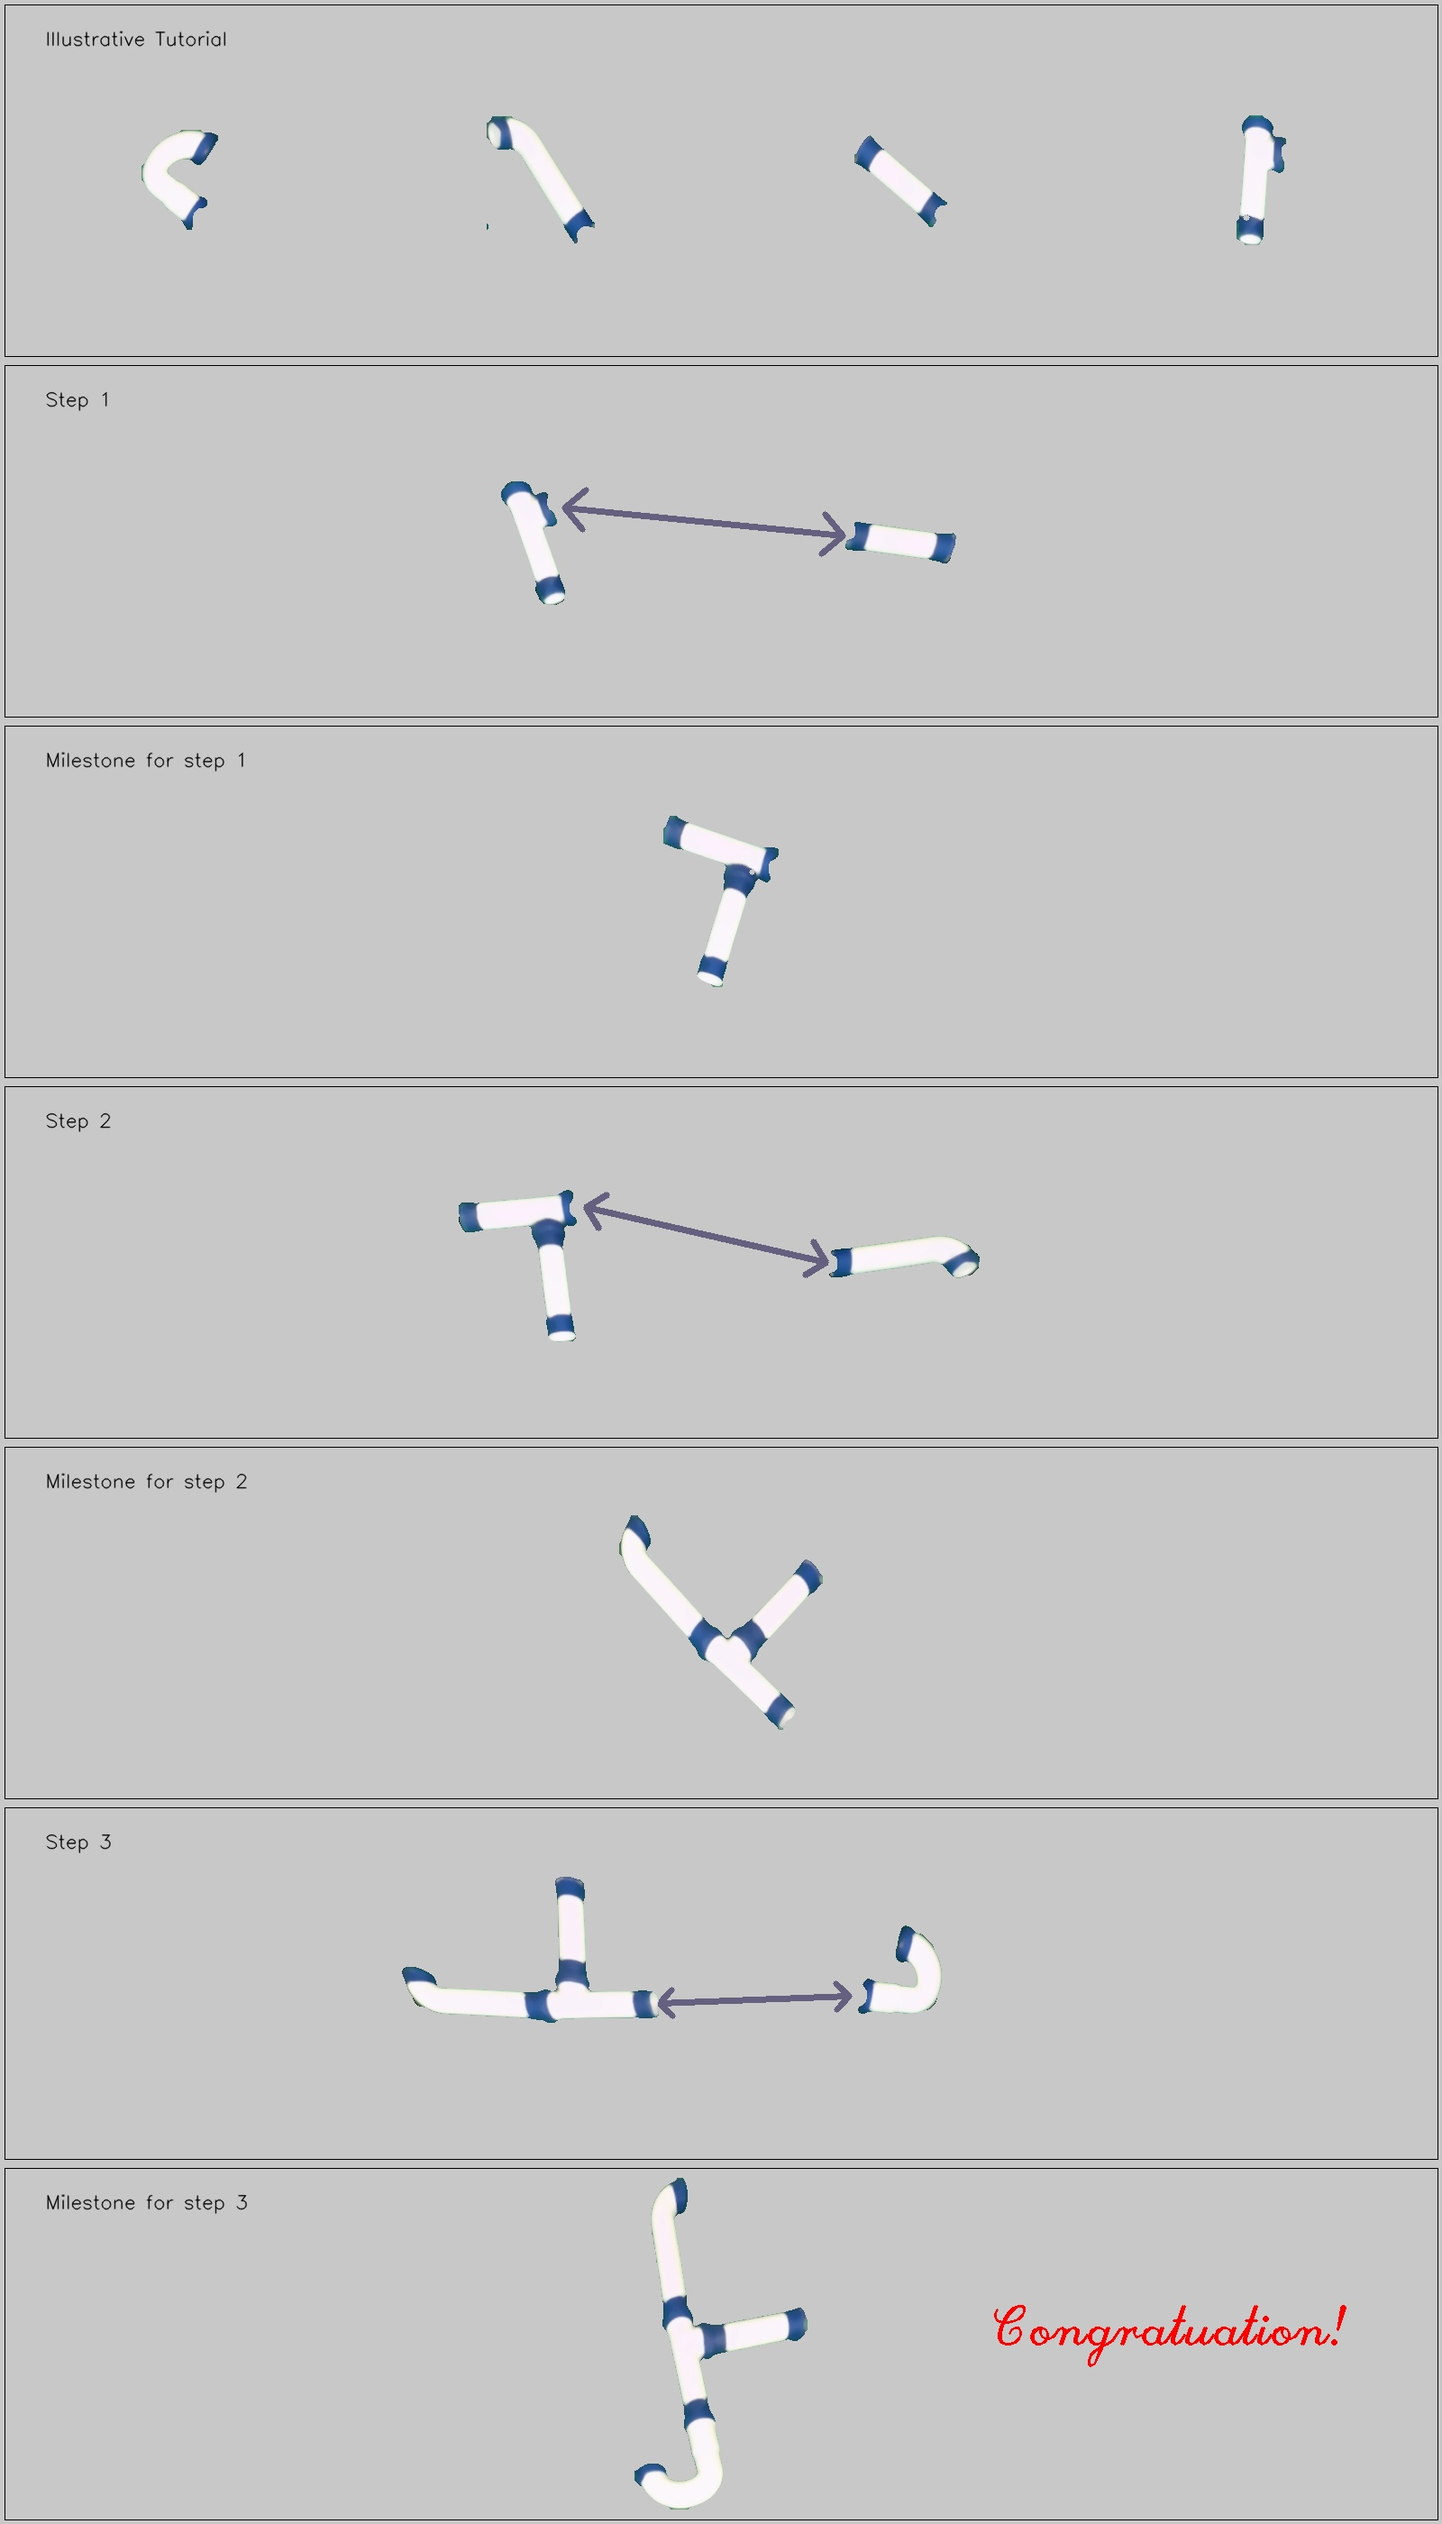
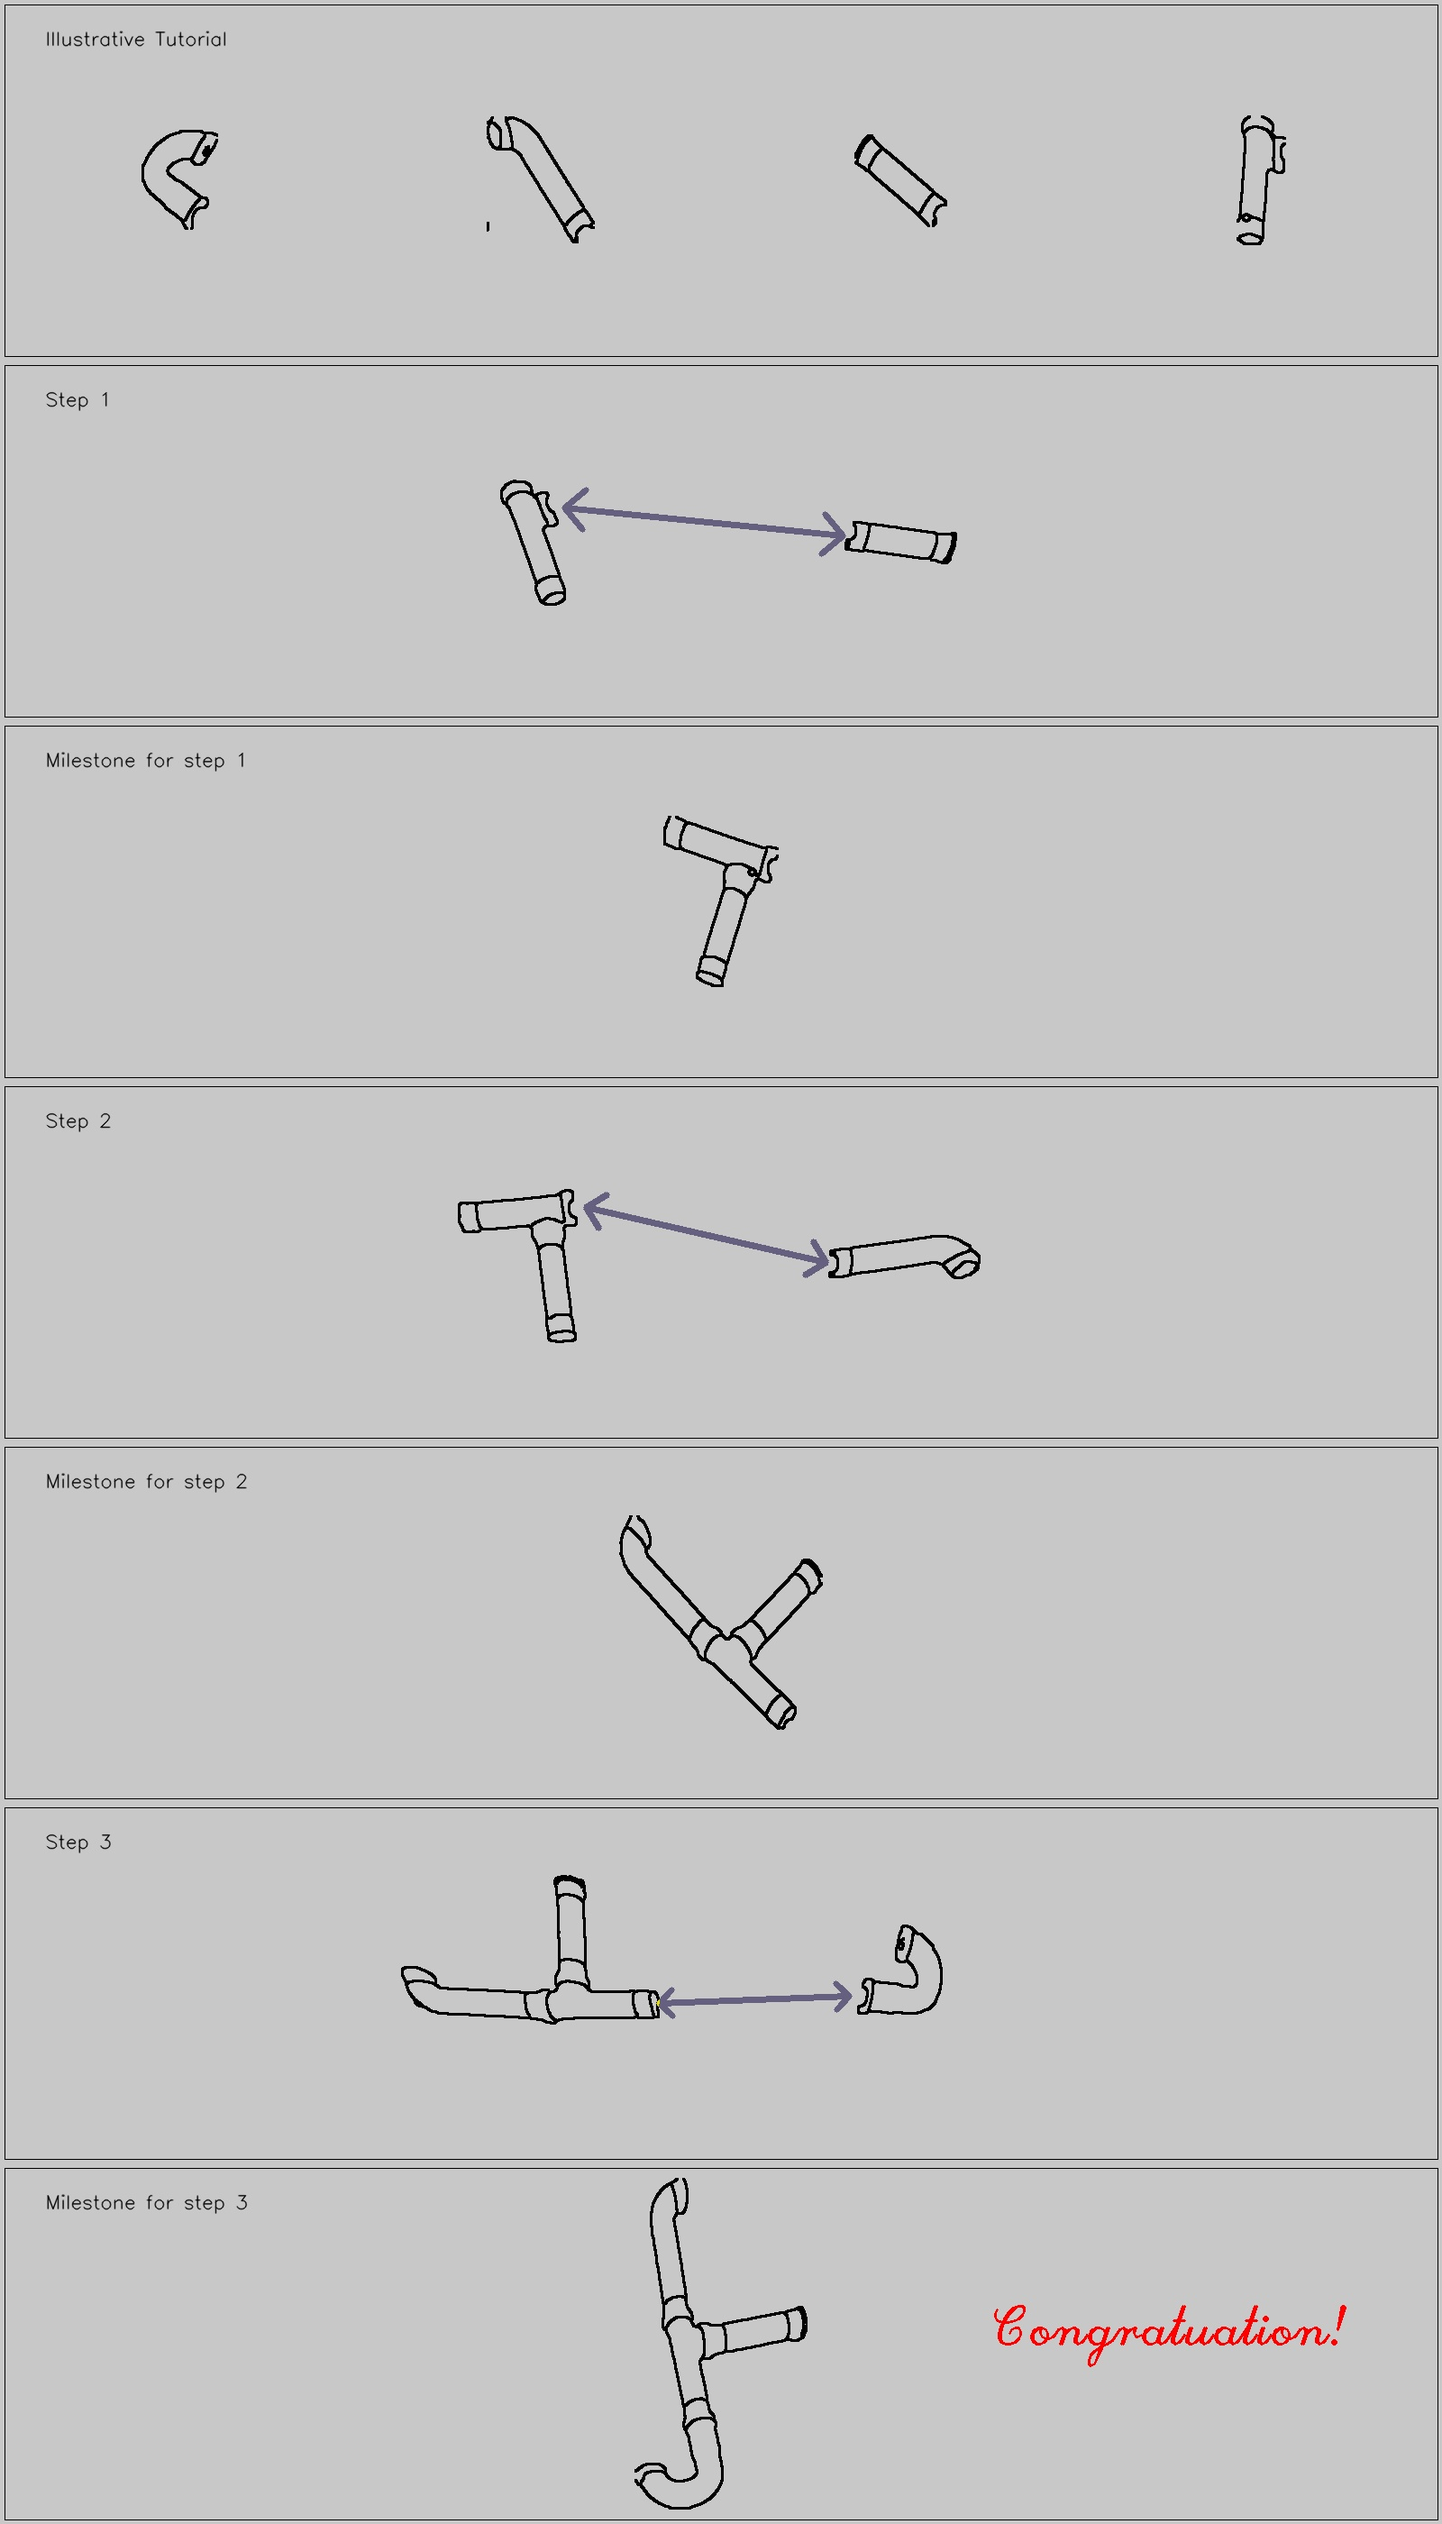
switch to black

diff --git a/script/tutorial.py b/script/tutorial.py
@@ -40,7 +40,21 @@ def cartoon(input_image, a=23, N=5, p=100):
 
     hand_mask = cv2.inRange(hsv, Hand_low, Hand_high)
     hand_mask = cv2.dilate(hand_mask, kernel = np.ones((7,7),np.uint8))
-    #green_mask = 255 - green_mask
+    # thresh = 255 - green_mask
+    # object_mask = cv2.subtract(thresh, hand_mask)
+    # cv2.imshow('dd')
+    # (_,object_contours, object_hierarchy)=cv2.findContours(object_mask,cv2.RETR_TREE,cv2.CHAIN_APPROX_SIMPLE)
+    # max_area = 0
+    # app = None
+    # surface = np.ones(input_image.shape)
+    # for i , contour in enumerate(object_contours):
+    #     area = cv2.contourArea(contour)
+    #     if object_hierarchy[0, i, 3] == -1 and area > max_area:	
+    #         max_area = area  
+    #         epsilon = 0.001*cv2.arcLength(contour,True)
+    #         app = cv2.approxPolyDP(contour,epsilon,True)
+    # cv2.drawContours(surface,[app],-1,(255, 255, 255),1)
+    # return surface
     res = cv2.bitwise_and(input_image, input_image, mask=green_mask)
     res1 = cv2.bitwise_and(input_image, input_image, mask=hand_mask)
     input_image = cv2.subtract(input_image, res)
@@ -72,21 +86,24 @@ def cartoon(input_image, a=23, N=5, p=100):
     edges = cv2.Canny(median_filtimg2,p,2*p)
     dialateimg =  cv2.dilate(edges,np.ones((3,3),'uint8'))
     edges_inv = cv2.bitwise_not(dialateimg)
+    # cv2.imshow('Toonified Image',edges)       
+    # cv2.waitKey(0)
     _,thresh = cv2.threshold(edges_inv,127,255,0)
     _,contours, _ = cv2.findContours(thresh,1,2)
     img_contours = cv2.drawContours(thresh, contours, -1, (0,0,0), 1)
+    img_contours = cv2.bitwise_not(img_contours)
+    dialateimg = cv2.cvtColor(dialateimg,cv2.COLOR_GRAY2RGB)
 
-    finalimg = median_filtimg.copy()
+    finalimg = dialateimg.copy()
     # for i in range(0,rows):
     #     for j in range(0,cols):
     #         if edges_inv.item(i,j) == 0:
     #             finalimg.itemset((i,j,0),0)
     #             finalimg.itemset((i,j,1),0)
     #             finalimg.itemset((i,j,2),0)
-
+    
     return finalimg
-    cv2.imshow('Toonified Image',finalimg)       
-    cv2.waitKey(0)  
+      
 
 def padding(img, size, point):
     height, width = size
@@ -173,7 +190,7 @@ def get_center(img, visualization=False):
 
 def draw_arrow(img, pt1, pt2):
     alpha = 0.5
-    pink = (255, 192, 203)
+    pink = (0, 0, 255)
     overlay = img.copy()
     pt1 = (int(pt1[0]+20), int(pt1[1]))
     pt2 = (int(pt2[0]-20), int(pt2[1]))
@@ -196,6 +213,8 @@ class comic_book():
     def __init__(self, image_list, angle=(0, 0), point=None):
         if comic_book.num_instance == 0:
             canvas= concat_imgs(image_list, point)[0]
+            # cv2.imshow('dd', canvas)
+            # cv2.waitKey(0)
             canvas = add_background(canvas)
             cv2.putText(canvas,  "Illustrative Tutorial", (50,50), cv2.FONT_HERSHEY_SIMPLEX, 0.7, (0,0,0), 1, cv2.LINE_AA)
             draw_rect(canvas, 5)
@@ -224,14 +243,10 @@ class comic_book():
         offset = (500, 200)
         px = comic_book.canvas.shape[1] - offset[0]
         py = comic_book.canvas.shape[0] - offset[1]
+        comic_book.canvas[comic_book.canvas == [255, 255, 255]] = 1
         cv2.putText(comic_book.canvas,  "Congratuation!", (px,py), cv2.FONT_HERSHEY_SCRIPT_COMPLEX, 2, (0,0,255), 2)
 
 def get_filename(ls, target):
-    # if target == 11:
-    #     for x in ls:
-    #         print(int(str(x)[-5]) + int(str(x)[-6]) * 10)
-    #         print('dd')
-   # print(list(filter(lambda x: int(str(x)[-5]) + int(str(x)[-6]) * 10  == 11, ls)))
     return list(filter(lambda x: int(str(x)[-5]) + int(str(x)[-6]) * 10  == target, ls))[0]
 
 
